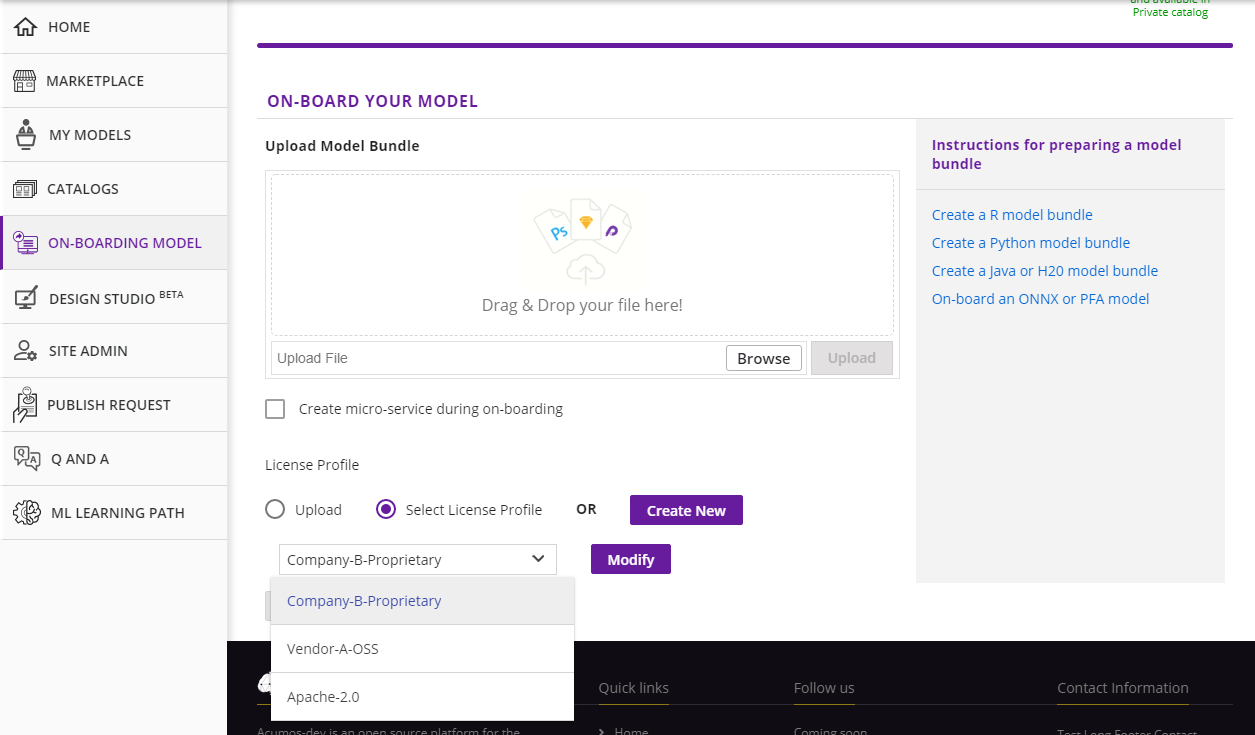
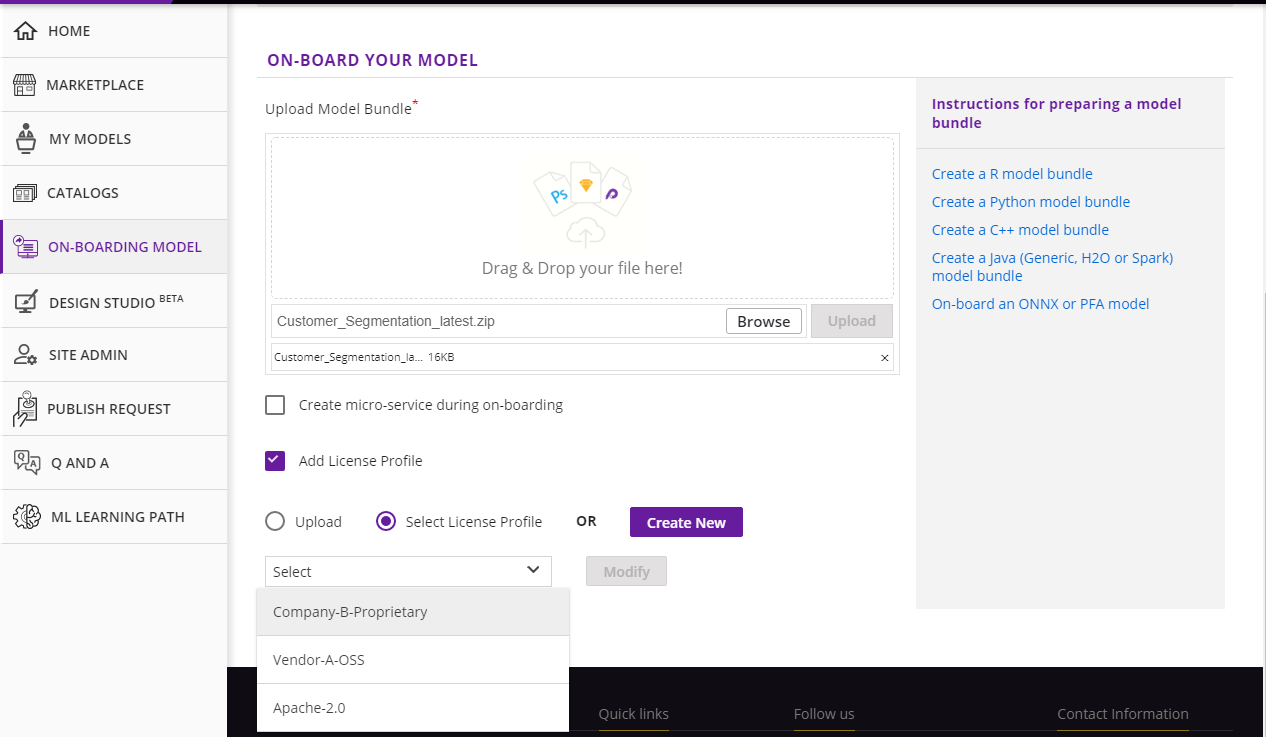
License as optional while on-boarding documenation
Issue_ID: ACUMOS-3733
Description: License should be optional during web-on boarding

diff --git a/docs/user-guides/portal-user/portal/portal-onboarding-dockerized-uri.rst b/docs/user-guides/portal-user/portal/portal-onboarding-dockerized-uri.rst
@@ -36,12 +36,12 @@ Solution** and **Add Artifacts**) and available in **MY MODELS** page, you can v
 	
 
 
-License file must be uploaded while On-boarding the model. There are two radio buttons **Upload** and **Select License Profile** from where user can upload license file which must be with an extension of *.json* which contains
-high level general terms and conditions for use of the model.
+License can be added optionally. **ADD LICENSE PROFILE** check box allows the user to add license file while On-boarding the model. There are two radio buttons **Upload** and **Select License Profile** 
+from where user can upload license file which must be with an extension of *.json* which contains high level general terms and conditions for use of the model.
+
 
 .. image:: ../images/portal/model-onboarding-docker-uri-license.png
                  :width: 75%
-
 
 
 If **Upload** radio button is selected it will allow user to browse a license.json file. Once the file is selected the **Upload** button is enabled clicking which file will be uploaded. 

diff --git a/docs/user-guides/portal-user/portal/portal-onboarding-web.rst b/docs/user-guides/portal-user/portal/portal-onboarding-web.rst
@@ -80,9 +80,11 @@ and Create Tosca steps turn green. Click the **View Model** button to see your m
 see **Create Microservice** button  which is right side of ** Manage My Model** button to 
 create MicroService for your model.
 
-License file must be uploaded while On-boarding the model. There are two radio buttons **Upload** and 
-**Select License Profile** from where user can upload license file which must be with an extension of *.json* 
-which contains high level general terms and conditions for use of the model.
+License can be added optionally. **Add License Profile** check box allows the user to add license 
+file while On-boarding the model. There are two radio buttons **Upload** and **Select License Profile** 
+from where user can upload license file which must be with an extension of *.json* which contains 
+high level general terms and conditions for use of the model. Checkbox will be disabled till the model 
+is uploaded.
 
 .. image:: ../images/portal/model-onboarding-with-license.png
                  :width: 75%
